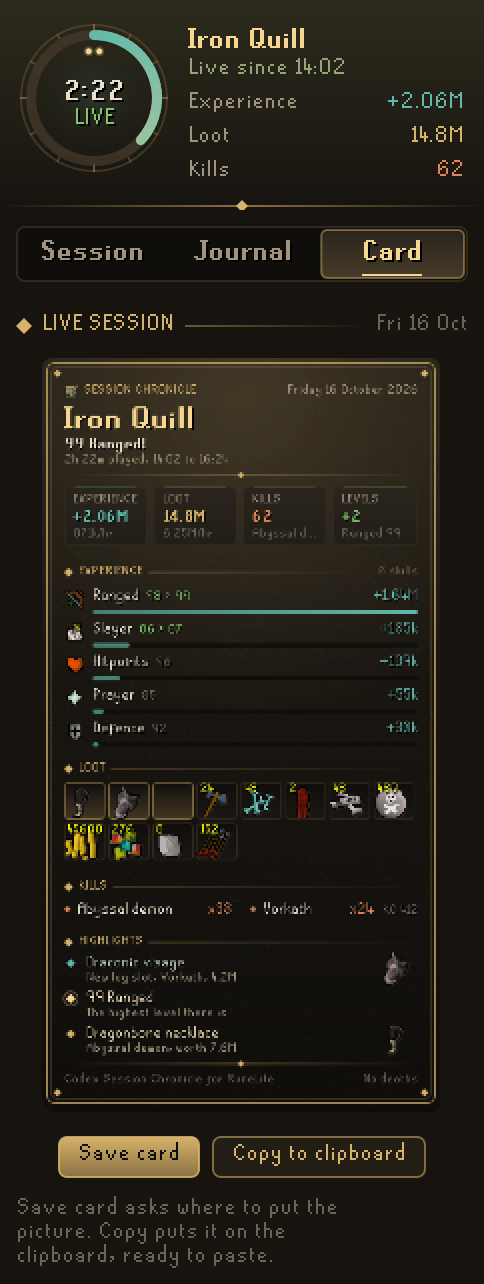
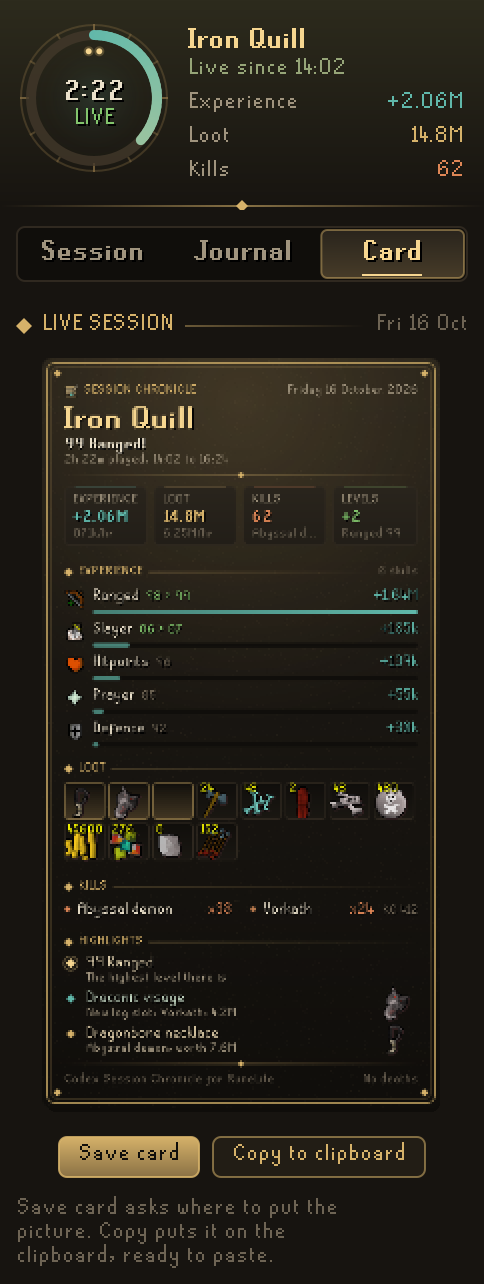
Keep a 99 and a pet ahead of a rich new log slot in the highlights

Changed region(s): [[0.124, 0.7477, 0.4649, 0.81], [0.7748, 0.7477, 0.8368, 0.81]]

diff --git a/src/test/java/com/codex/sessionchronicle/core/ChronicleTest.java b/src/test/java/com/codex/sessionchronicle/core/ChronicleTest.java
@@ -205,9 +205,14 @@ public class ChronicleTest
 		assertEquals(2, c.current().moments.size());
 		assertEquals(20997, c.current().moments.get(1).getItemId());
 
+		// A 99 still leads the highlights over even the richest new slot.
+		c.xp("Ranged", 13_000_000, 98, 0);
+		c.xp("Ranged", 13_034_431, 99, 62_000);
+		assertEquals(Moment.Kind.MAX, Summary.of(c.current(), Summary.State.LIVE).getHighlights().get(0).getKind());
+
 		// Long after, the same name is a new moment.
 		c.moment(ChatParser.moment("New item added to your collection log: Draconic visage", 60 * MIN, null));
-		assertEquals(3, c.current().moments.size());
+		assertEquals(4, c.current().moments.size());
 	}
 
 	@Test

diff --git a/src/main/java/com/codex/sessionchronicle/core/Moment.java b/src/main/java/com/codex/sessionchronicle/core/Moment.java
@@ -6,8 +6,8 @@ public class Moment
 	/** What kind of moment it is; the order is how much it matters on a card. */
 	public enum Kind
 	{
-		PET(100),
-		MAX(90),
+		PET(120),
+		MAX(100),
 		COLLECTION(80),
 		DROP(70),
 		QUEST(60),
